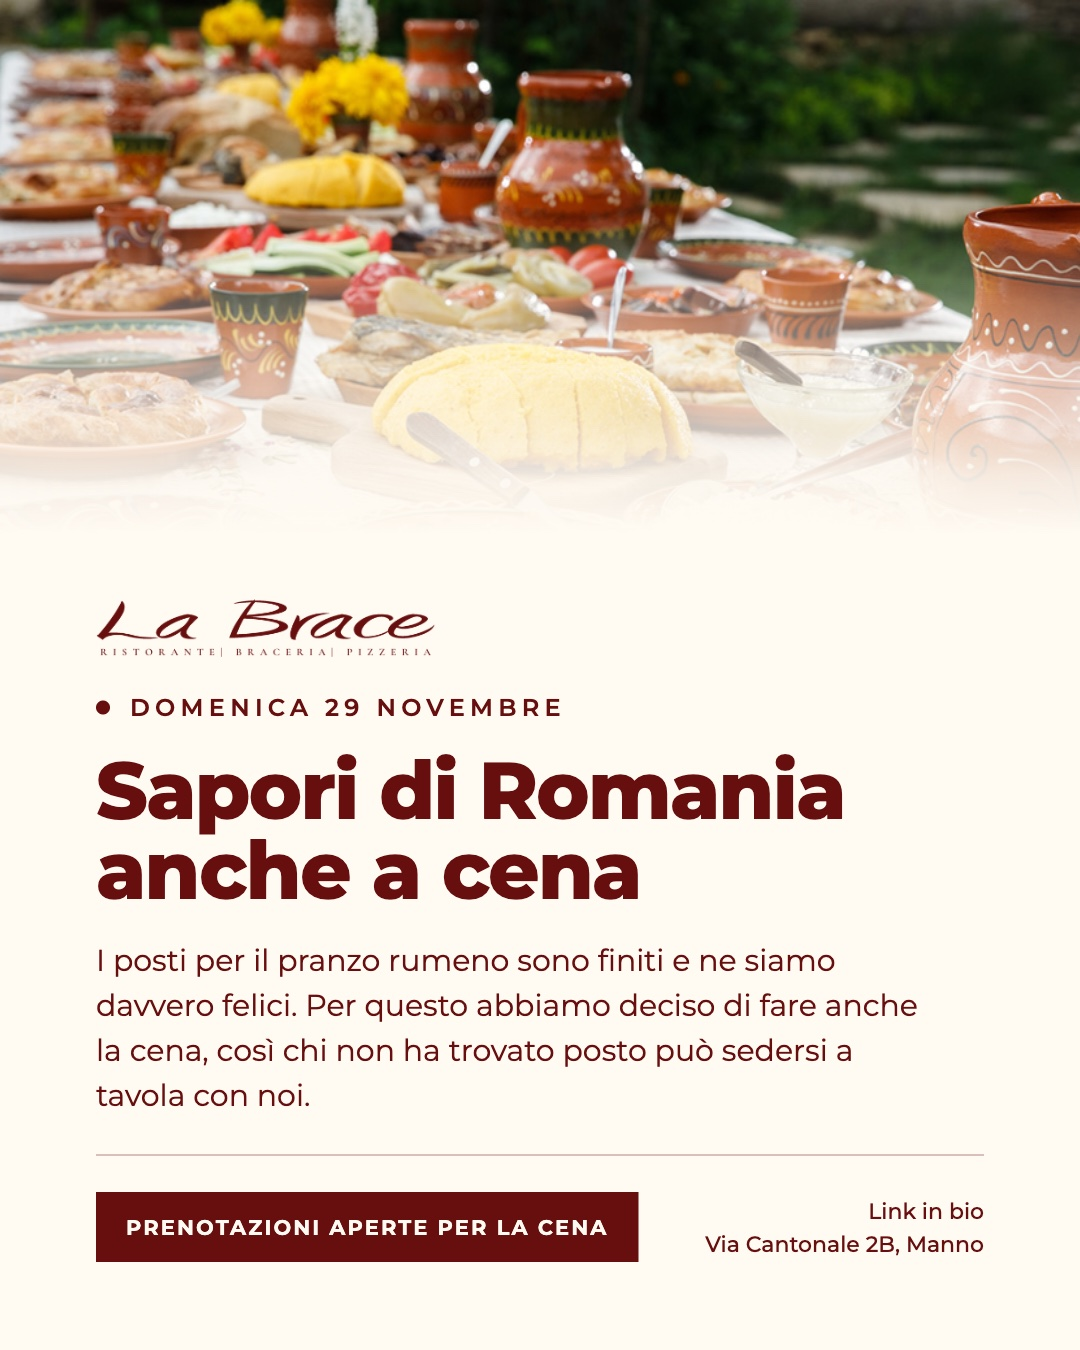
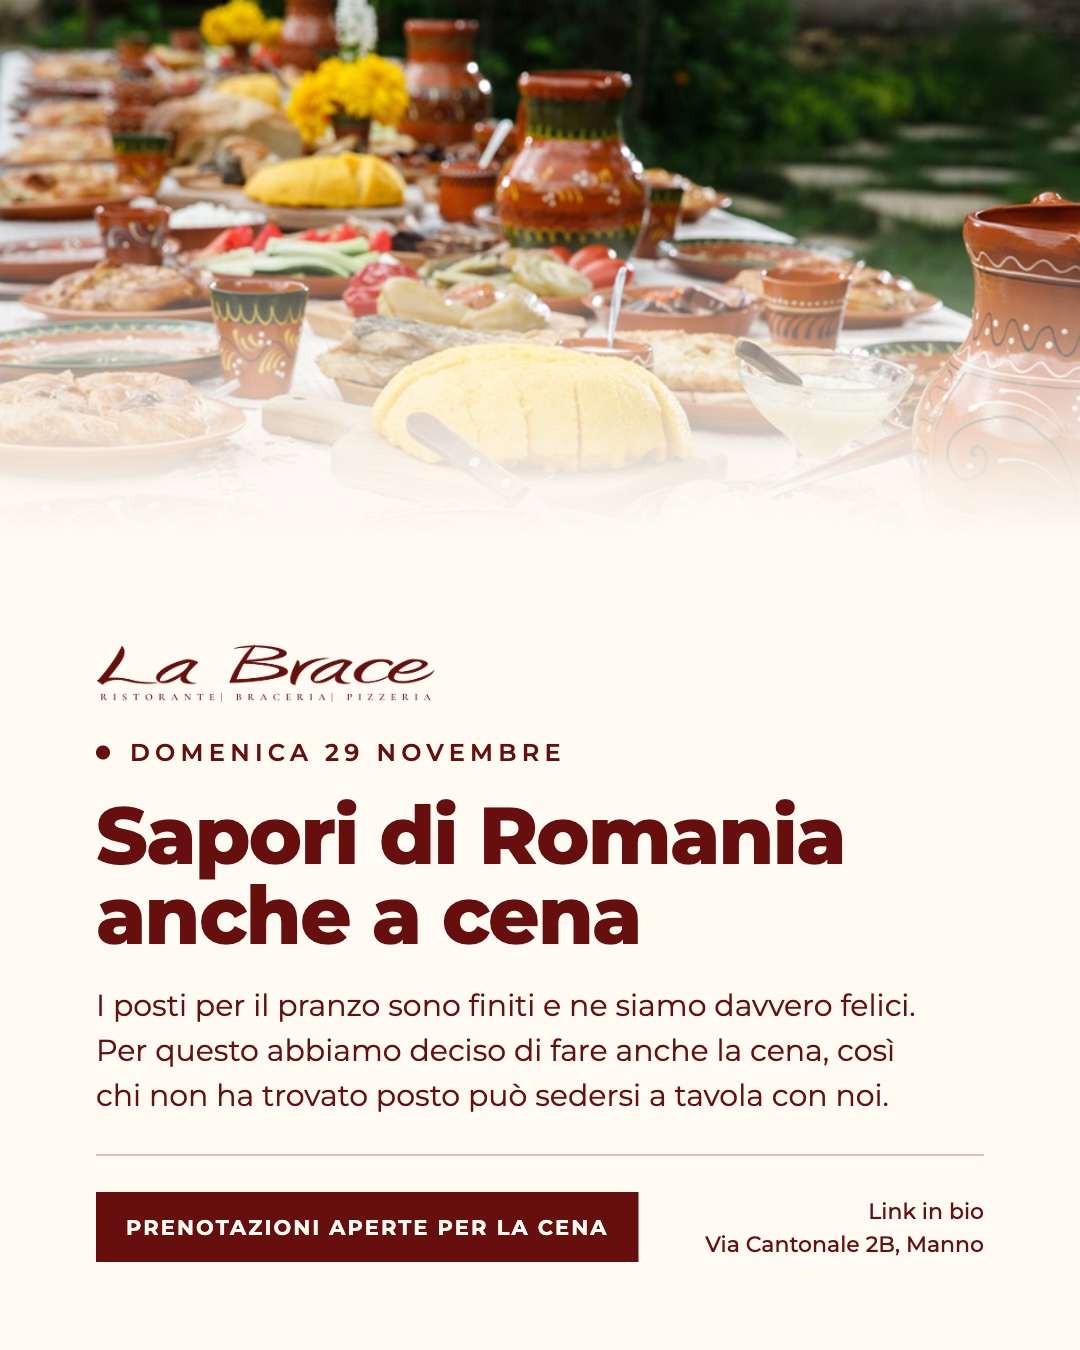
Aggiorna l'evento del mese (pannello admin)

Changed region(s): [[0.0917, 0.4356, 0.8556, 0.84]]

diff --git a/data/evento.js b/data/evento.js
@@ -3,8 +3,8 @@
 LB.evento = {
   "active": true,
   "img": "events/evento-mese.jpeg",
-  "v": 1795212293,
+  "v": 1795212996,
   "link": "https://pnssm.pro/3mslq5n",
   "title": "CENA RUMENA — Domenica 29 Novembre, CHF 55",
-  "updated": "2026-11-20T22:04:53.161Z"
+  "updated": "2026-11-20T22:16:36.291Z"
 };
